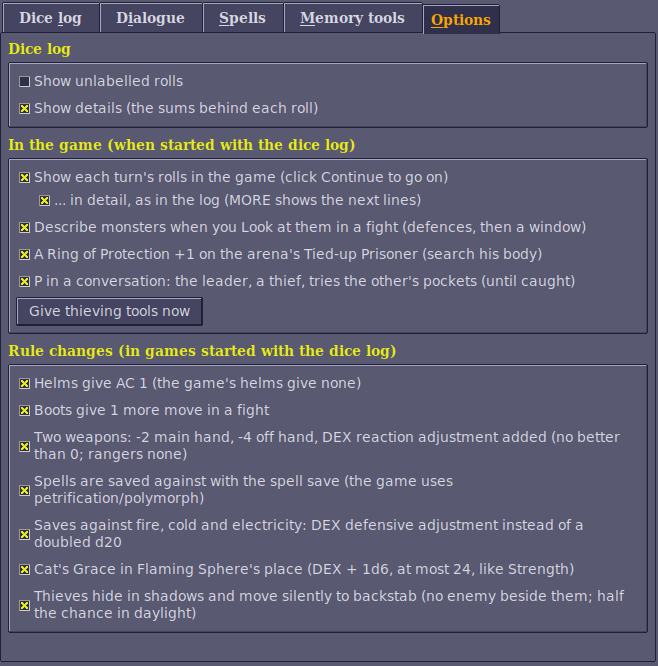
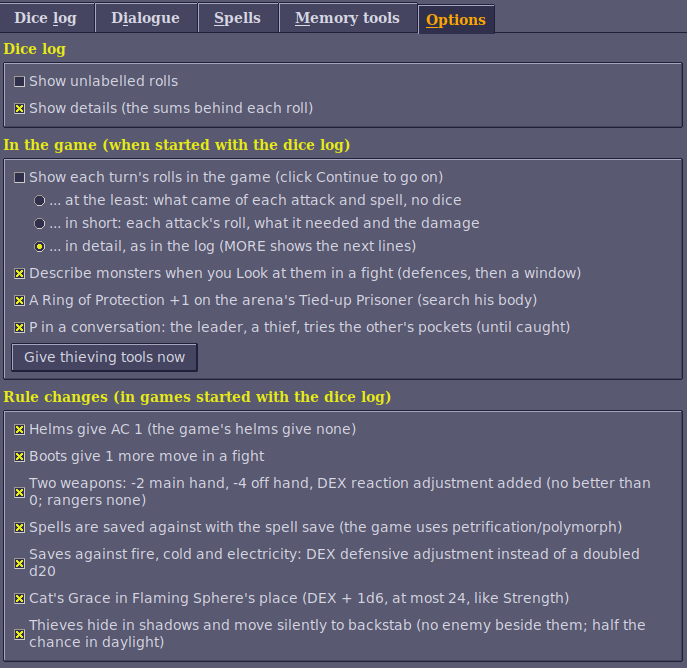
In-game turn pop-ups: off by default, and a third, minimal level
Below "Show each turn's rolls in the game" the Options tab now picks how much
the pop-up says: at the least (what came of each attack and spell, no dice:
"Cilla hits Slig for 8"), in short, or in detail. The pop-ups are off unless
ticked. Settings saved with the old detail switch carry over; the command
line gains --minimal-popups. Options screenshot retaken.

Claude-Session: https://claude.ai/code/session_01BNiWkhyZSJPYsN3zRrweVp

Changed region(s): [[0.0, 0.0, 1.0, 1.0], [0.304, 0.0, 0.7599, 0.0601]]

diff --git a/darksun-companion/dscompanion/dicelog.py b/darksun-companion/dscompanion/dicelog.py
@@ -149,6 +149,20 @@ RANDOM_NAME_RETURNS = (bytes.fromhex("83c40448eb11"), bytes.fromhex("83c40405630
                        bytes.fromhex("83c40405c700eb"))
 
 KIND_ROLL, KIND_SAVE, KIND_AC = 0, 1, 2
+# How much each turn's pop-up in the game says (the Options' turn_popups_level)
+POPUP_DETAIL, POPUP_SHORT, POPUP_MINIMAL = "detail", "short", "minimal"
+POPUP_LEVELS = (POPUP_MINIMAL, POPUP_SHORT, POPUP_DETAIL)
+# a spell's result in the log, for the least of them: "  Slig takes 9 from Fireball, now 9/18 HP"
+SPELL_RESULT = re.compile(r"^\s+(.+? (?:takes \d+|regains \d+ HP) from [^,]+)")
+
+
+def popup_level(settings: dict) -> str:
+    """The pop-ups' level as saved (earlier versions had only detail or not)."""
+    level = settings.get("turn_popups_level")
+    if level in POPUP_LEVELS:
+        return level
+    return POPUP_DETAIL if settings.get("turn_popups_detail", True) else POPUP_SHORT
+
 THIEF = 17  # class number
 
 EFFECT_INTERVAL = 0.25  # seconds between looks at the active effects
@@ -306,7 +320,7 @@ class DiceLog:
         self._new_speakers: Dict[int, str] = {}  # learned since take_speakers()
         self._talk: Optional[dict] = None  # the conversation on screen: its portraits and who it's with
         self.popups = False  # in-game turn summaries (set_popups)
-        self.popup_detail = True  # ... with the dice log's lines, or in short
+        self.popup_level = POPUP_DETAIL  # ... with the dice log's lines, in short, or the results only
         self.monster_info = True  # monsters' defences in the game's Look box (set_monster_info)
         self.arena_ring = True  # put the Ring +1 on the Tied-up Prisoner's body in the arena (ring.py)
         self.pickpockets = True  # P in a conversation picks a pocket (pickpocket.py)
@@ -498,8 +512,8 @@ class DiceLog:
 
     def use_settings(self, settings: dict) -> None:
         """The Options tab's switches for the game, as saved (for the logs without a window)."""
-        self.popups = bool(settings.get("turn_popups", True))
-        self.popup_detail = bool(settings.get("turn_popups_detail", True))
+        self.popups = bool(settings.get("turn_popups", False))
+        self.popup_level = popup_level(settings)
         self.monster_info = bool(settings.get("monster_info", True))
         self.arena_ring = bool(settings.get("arena_ring", True))
         self.pickpockets = bool(settings.get("pickpockets", True))
@@ -574,15 +588,31 @@ class DiceLog:
         ("needs 8+ (65%)", as the AC the roll hits and the target's AC say it) or a save's chance."""
         return TO_HIT_CHANCE.sub("", line.strip())
 
-    def turn_summary(self, combatant: int, detail: bool = True) -> str:
+    def turn_summary(self, combatant: int, level: str = POPUP_DETAIL) -> str:
         """What happened during that combatant's turn, for the game's window. In detail, the dice
         log's lines for it, a line each: attacks (the roll, the THAC0 worked out, the damage
-        dice), spells' damage and saving throws; otherwise in short, the attacks as
-        "Daaki attacks Guard: 18 vs 8+ HIT, 13 damage; 5 vs 8+ miss" and the spells' first lines."""
+        dice), spells' damage and saving throws; in short, the attacks as
+        "Daaki attacks Guard: 18 vs 8+ HIT, 13 damage; 5 vs 8+ miss" and the spells' first lines;
+        at the least, what came of it, no dice: "Daaki hits Guard for 13, misses. Slig takes 9
+        from Fireball"."""
         own = self.game.combatant_creature(combatant)
         order = sorted(self._turn_attacks, key=lambda c: c != own)  # stable: the rest in order of attacking
-        if detail:
+        if level == POPUP_DETAIL:
             text = "\n".join(self._for_game(line) for line in self._turn_log)
+        elif level == POPUP_MINIMAL:
+            parts = []
+            for creature in order:
+                target = None
+                for a in self._turn_attacks[creature]:
+                    what = (f"hits for {a['damage']}" if a["damage"] is not None else "hits") if a["hit"] else "misses"
+                    if a["target"] != target:
+                        target = a["target"]
+                        what = what.replace("hits", f"hits {target}", 1) if a["hit"] else f"misses {target}"
+                        parts.append(f"{self.game.creature_name(creature)} {what}")
+                    else:
+                        parts[-1] += f", {what}"
+            parts += [m.group(1) for m in map(SPELL_RESULT.match, self._turn_log) if m]
+            text = ". ".join(parts)
         else:
             parts = []
             for creature in order:
@@ -717,14 +747,14 @@ class DiceLog:
         # Only in the party's own fights: a fight the scripts stage without the party (the
         # Defiler's show at the arena's start) waits on the game's dialogue window, and a summary
         # there would let its script run on before the fight is over.
-        summary = self.turn_summary(ended, self.popup_detail) if self.popups and self._party_fighting(ended) else ""
-        if summary:  # and who is still to come, so the order isn't lost deep in a round
+        summary = self.turn_summary(ended, self.popup_level) if self.popups and self._party_fighting(ended) else ""
+        if summary and self.popup_level != POPUP_MINIMAL:  # and who is still to come, so the order isn't lost
             try:
                 still = self.still_to_act(ended, frozenset(self._turn_attacks))
             except (struct.error, IndexError, ValueError):
                 still = ""
             if still:
-                summary += ("\n" if self.popup_detail else ". ") + still
+                summary += ("\n" if self.popup_level == POPUP_DETAIL else ". ") + still
         summary = summary.replace("%", " pct")  # the game's window shows no "%", even as "%%"
         if len(summary) > MSG_SIZE - 1:
             summary = summary[:MSG_SIZE - 4].rsplit(" ", 1)[0] + "..."

diff --git a/darksun-companion/dscompanion/viewer.py b/darksun-companion/dscompanion/viewer.py
@@ -15,7 +15,7 @@ import tkinter as tk
 from tkinter import filedialog, messagebox, ttk
 from typing import Callable, Dict, List, Optional, Tuple
 
-from . import art, game, launch, partyview, spellbook, theme, values
+from . import art, dicelog, game, launch, partyview, spellbook, theme, values
 from .dicelog import DiceLog, DiceLogError
 from .guestmem import GuestMemory
 from .layout import Layout
@@ -282,15 +282,18 @@ class Viewer:
         in_game = ttk.LabelFrame(options, text="In the game (when started with the dice log)", padding=6)
         in_game.pack(fill="x", pady=(8, 0))
         # long lines wrap to the window (as with larger text) instead of running out of it
-        options.bind("<Configure>", lambda e: ttk.Style().configure(
-            "TCheckbutton", wraplength=max(200, e.width - 60)), add="+")
+        options.bind("<Configure>", lambda e: [ttk.Style().configure(
+            kind, wraplength=max(200, e.width - 60)) for kind in ("TCheckbutton", "TRadiobutton")], add="+")
         # the game's own window, at the end of each turn in a fight: that turn's rolls
-        self.popups = tk.BooleanVar(value=bool(settings.get("turn_popups", True)))
+        self.popups = tk.BooleanVar(value=bool(settings.get("turn_popups", False)))
         ttk.Checkbutton(in_game, text="Show each turn's rolls in the game (click Continue to go on)",
                         variable=self.popups, command=self._popups_changed).pack(anchor="w")
-        self.popup_detail = tk.BooleanVar(value=settings.get("turn_popups_detail", True))
-        ttk.Checkbutton(in_game, text="... in detail, as in the log (MORE shows the next lines)",
-                        variable=self.popup_detail, command=self._popups_changed).pack(anchor="w", padx=(20, 0))
+        self.popup_level = tk.StringVar(value=dicelog.popup_level(settings))
+        for value, text in ((dicelog.POPUP_MINIMAL, "... at the least: what came of each attack and spell, no dice"),
+                            (dicelog.POPUP_SHORT, "... in short: each attack's roll, what it needed and the damage"),
+                            (dicelog.POPUP_DETAIL, "... in detail, as in the log (MORE shows the next lines)")):
+            ttk.Radiobutton(in_game, text=text, value=value, variable=self.popup_level,
+                            command=self._popups_changed).pack(anchor="w", padx=(20, 0))
         # the game's Look box, on a monster in a fight: what hurts it, then all of it in a window
         self.monster_info = tk.BooleanVar(value=bool(settings.get("monster_info", True)))
         ttk.Checkbutton(in_game, text="Describe monsters when you Look at them in a fight (defences, then a window)",
@@ -600,7 +603,7 @@ class Viewer:
                 self.dice.speaker_names = launch.speaker_names()
                 self.dice.learned_speakers = launch.learned_speakers()
                 self.dice.popups = self.popups.get()
-                self.dice.popup_detail = self.popup_detail.get()
+                self.dice.popup_level = self.popup_level.get()
                 self.dice.monster_info = self.monster_info.get()
                 self.dice.arena_ring = self.arena_ring.get()
                 self.dice.pickpockets = self.pickpockets.get()
@@ -681,7 +684,7 @@ class Viewer:
         on = self.popups.get()
         settings = launch.load_settings()
         settings["turn_popups"] = on
-        settings["turn_popups_detail"] = self.popup_detail.get()
+        settings["turn_popups_level"] = self.popup_level.get()
         settings["monster_info"] = self.monster_info.get()
         settings["arena_ring"] = self.arena_ring.get()
         settings["pickpockets"] = self.pickpockets.get()
@@ -690,7 +693,7 @@ class Viewer:
         launch.save_settings(settings)
         if self.dice is not None:
             self.dice.set_popups(on)
-            self.dice.popup_detail = self.popup_detail.get()
+            self.dice.popup_level = self.popup_level.get()
             self.dice.set_monster_info(self.monster_info.get())
             self.dice.arena_ring = self.arena_ring.get()
             self.dice.set_pickpockets(self.pickpockets.get())

diff --git a/darksun-companion/tests/test_dicelog.py b/darksun-companion/tests/test_dicelog.py
@@ -262,9 +262,9 @@ class AttackTests(unittest.TestCase):
                                parent_code=dicelog.WEAPON_DAMAGE_RETURN))
         log.describe(self.attack(3, 8, 4, 5, 9, after_f1=9, hit_bonus=1))  # and misses
         short = "Dag attacks Mountain Stalker: 18 vs 4+ HIT, 20 damage; 3 vs 4+ miss"
-        self.assertEqual(log.turn_summary(0, detail=False), short)
+        self.assertEqual(log.turn_summary(0, dicelog.POPUP_SHORT), short)
         # anyone's attacks during a turn go in its summary (a guarding character striking back...)
-        self.assertEqual(log.turn_summary(1, detail=False), short)
+        self.assertEqual(log.turn_summary(1, dicelog.POPUP_SHORT), short)
         # in detail: the dice log's lines, the damage under the hit it belongs to
         lines = log.turn_summary(0).split("\n")
         self.assertEqual(len(lines), 5)
@@ -272,7 +272,9 @@ class AttackTests(unittest.TestCase):
         self.assertTrue(lines[1].startswith("THAC0"))
         self.assertEqual(lines[2], "Dag hits Mountain Stalker for 20: 2d8 = [2 + 5] +1 weapon +12 STR 24")
         self.assertTrue(lines[3].endswith("-> miss"))
-        log.popup_detail = False
+        # at the least: what came of it
+        self.assertEqual(log.turn_summary(0, dicelog.POPUP_MINIMAL), "Dag hits Mountain Stalker for 20, misses")
+        log.popup_level = dicelog.POPUP_SHORT
         # DSCLOG's side: it counts the turn's end (Dag's, combatant 0) and waits for the text
         m = log.guest.mem
         struct.pack_into("<H", m, HDR + dicelog.TSR_HDR_OFF, 0)
@@ -286,6 +288,25 @@ class AttackTests(unittest.TestCase):
         self.assertEqual(bytes(m[HDR + 0x400:HDR + 0x400 + 68]).split(b"\0")[0],
                          b"Dag attacks Mountain Stalker: 18 vs 4+ HIT, 20 damage; 3 vs 4+ miss")
         self.assertEqual(log.turn_summary(0), "")  # a new turn starts afresh
+
+    def test_minimal_spells(self):
+        """At the least, a spell's damage taken and healing, without its dice or saves."""
+        log = make_game()
+        log._turn_log += ["Fireball damage: 9d6 = [3 + 2 + 3 + 4 + 5 + 4 + 1 + 2 + 2] = 26",
+                          "Red Slaad saves vs Fireball from Daaki (petrification/polymorph): d20 = 6 -> saved",
+                          "  Red Slaad takes 13 from Fireball, now 47/60 HP",
+                          "  Dag regains 7 HP from Cure Light Wounds, now 30/40 HP"]
+        self.assertEqual(log.turn_summary(0, dicelog.POPUP_MINIMAL),
+                         "Red Slaad takes 13 from Fireball. Dag regains 7 HP from Cure Light Wounds")
+
+    def test_popup_settings(self):
+        """Off unless ticked; the level as saved, or from an earlier version's detail switch."""
+        log = make_game()
+        log.use_settings({})
+        self.assertEqual((log.popups, log.popup_level), (False, dicelog.POPUP_DETAIL))
+        self.assertEqual(dicelog.popup_level({"turn_popups_detail": False}), dicelog.POPUP_SHORT)
+        self.assertEqual(dicelog.popup_level({"turn_popups_level": "minimal", "turn_popups_detail": True}),
+                         dicelog.POPUP_MINIMAL)
 
     def test_look_box_describes_the_monster(self):
         log = make_game()
@@ -344,7 +365,7 @@ class AttackTests(unittest.TestCase):
         self.assertIn("needs 12 -> saved", text[1])  # the chance to save left out too
         self.assertEqual(text[2], "Dag takes 8 from Fireball, now 16/24 HP")
         self.assertEqual(len(text), 3)  # nor unlabelled dice
-        self.assertEqual(log.turn_summary(0, detail=False).split(". ")[0], "Fireball damage: 5d6 = [2 + 5 + 3 + 6 + 1] = 17")
+        self.assertEqual(log.turn_summary(0, dicelog.POPUP_SHORT).split(". ")[0], "Fireball damage: 5d6 = [2 + 5 + 3 + 6 + 1] = 17")
 
     def test_detailed_summary_in_the_game(self):
         log = make_game()

diff --git a/darksun-companion/dscompanion/__main__.py b/darksun-companion/dscompanion/__main__.py
@@ -133,6 +133,7 @@ def cmd_checks(args) -> None:
 
 def cmd_dicelog(args) -> None:
     import time
+    from . import dicelog
     from .dicelog import DiceLog
     from .dicelog import DiceLogError
     from .guestmem import GuestMemoryError
@@ -148,7 +149,8 @@ def cmd_dicelog(args) -> None:
     log = DiceLog(guest, record_everything=args.raw)
     log.use_settings(load_settings())  # the Ring +1, the rule changes, monster descriptions
     log.popups = args.popups
-    log.popup_detail = not args.short_popups
+    log.popup_level = (dicelog.POPUP_MINIMAL if args.minimal_popups else
+                       dicelog.POPUP_SHORT if args.short_popups else dicelog.POPUP_DETAIL)
     log.speaker_names = speaker_names()
     log.learned_speakers = learned_speakers()
 
@@ -363,6 +365,8 @@ def main(argv=None) -> int:
                    help="in a fight, have the game show each turn's rolls when the turn ends")
     s.add_argument("--short-popups", action="store_true",
                    help="with --popups: one line per target instead of the log's detail")
+    s.add_argument("--minimal-popups", action="store_true",
+                   help="with --popups: only what came of each attack and spell, no dice")
     s.set_defaults(func=cmd_dicelog)
 
     s = sub.add_parser("checks", help="list the thief skill and ability checks in the game's scripts (spoilers)")

diff --git a/darksun-companion/dscompanion/theme.py b/darksun-companion/dscompanion/theme.py
@@ -86,10 +86,11 @@ def apply(root: tk.Tk) -> None:
     style.map("TButton", background=[("pressed", DEEP), ("active", STONE)],
               foreground=[("pressed", YELLOW), ("active", YELLOW)],
               lightcolor=[("pressed", SHADOW)], darkcolor=[("pressed", EDGE_LIT)])
-    style.configure("TCheckbutton", background=STONE, foreground=PALE, indicatorbackground=DEEP,
-                    indicatorforeground=YELLOW, focuscolor=FOCUS)
-    style.map("TCheckbutton", background=[("active", STONE)], foreground=[("active", YELLOW)],
-              indicatorbackground=[("active", DARK)])
+    for kind in ("TCheckbutton", "TRadiobutton"):
+        style.configure(kind, background=STONE, foreground=PALE, indicatorbackground=DEEP,
+                        indicatorforeground=YELLOW, focuscolor=FOCUS)
+        style.map(kind, background=[("active", STONE)], foreground=[("active", YELLOW)],
+                  indicatorbackground=[("active", DARK)])
     style.configure("TEntry", fieldbackground=DEEP, foreground=YELLOW, insertcolor=PALE)
     style.configure("TCombobox", fieldbackground=DEEP, foreground=YELLOW, background=BUTTON,
                     arrowcolor=PALE)

diff --git a/darksun-companion/README.md b/darksun-companion/README.md
@@ -35,9 +35,9 @@ records; this ledger keeps the ones the game doesn't show you. What it does:
   View Character screen their THAC0 and saves
   (see [In the game](#in-the-game-thac0-saves-and-thief-skills)); the USE
   screen shows their spell slots left (see
-  [spell slots](#in-the-game-spell-slots-on-the-use-screen)); and after each
-  turn in a fight the game stops to show that turn's attack rolls, spell
-  damage and saving throws, and who is still to act (see
+  [spell slots](#in-the-game-spell-slots-on-the-use-screen)); and, if you
+  tick it, after each turn in a fight the game stops to show that turn's
+  attack rolls, spell damage and saving throws, and who is still to act (see
   [each turn's rolls](#in-the-game-each-turns-rolls)); and Looking at a monster
   in a fight tells you what hurts it (see
   [the Look box](#in-the-game-what-hurts-a-monster-the-look-box)). The game,
@@ -114,8 +114,8 @@ no packaged program to trust.
 Double-click **`Start Game with Dice Log.bat`** in the `darksun-companion`
 folder. It starts Shattered Lands (through GOG's own DOSBox) with the dice log
 helper loaded, and opens Templar's Ledger next to it. The game gets its
-in-game additions too: each turn's rolls shown in the game (untick **Show
-each turn's rolls in the game** on the Options tab to turn that off), THAC0,
+in-game additions too: each turn's rolls shown in the game if you want them
+(tick **Show each turn's rolls in the game** on the Options tab), THAC0,
 saves and thief skills on the inventory and View Character screens, and spell
 slots on the USE screen. Your saves are the same ones the game normally uses.
 The first time, it looks for the game in the usual GOG folders; if it can't
@@ -1030,11 +1030,13 @@ and stay, while Templar's Ledger (or its command-line dice log) is running.
 
 ### In the game: each turn's rolls
 
-With **Show each turn's rolls in the game** ticked on the Options tab (the
-default; or `python -m dscompanion dicelog --popups`), the game stops at the end
+With **Show each turn's rolls in the game** ticked on the Options tab (it is
+off unless you tick it; or `python -m dscompanion dicelog --popups`), the game
+stops at the end
 of every turn in a fight in which someone attacked or cast a spell, and shows
-that turn's rolls in its own dialogue window, with **Continue** to go on. They
-are the dice log's own lines: each attack's d20, the AC it would hit and the
+that turn's rolls in its own dialogue window, with **Continue** to go on. Below
+the box, pick how much it says: **at the least**, **in short** or **in
+detail**. In detail, they are the dice log's own lines: each attack's d20, the AC it would hit and the
 target's AC, how the THAC0 was worked out, and for a hit the damage dice and
 bonuses; a spell's damage dice, and each saving throw against it. (The chance
 to hit or to save is left out: the log has it.) The last line says who is
@@ -1048,14 +1050,18 @@ next ones:
 
 ![The game's window after a Defiler's Cone of Cold](docs/turn-spell.png)
 
-Untick **... in detail** (or add `--short-popups`) for one line per target
-instead (and each spell's first line):
+**In short** (or `--short-popups`) gives one line per target instead (and each
+spell's first line):
 
 ![The game's window at the end of Mlemlem's turn, in short](docs/turn-summary.png)
 
 `20 vs 11+ HIT, 12 damage` is the d20, the roll it needed (THAC0 − the
 target's AC; a natural 20 always hits, a 1 always misses), and the damage the
 hit did.
+
+**At the least** (or `--minimal-popups`) gives only what came of the turn, no
+dice: `Mlemlem hits Mountain Stalker for 12, misses. Slig takes 9 from
+Fireball`. It leaves out who is still to act.
 
 Each turn gets its own window, monsters' included. (The game plays a
 monster's whole turn inside one call, so the helper is also called there, just

diff --git a/README.md b/README.md
@@ -76,6 +76,9 @@ launcher runs a patched copy of the game that it keeps in its own folder.
   the game's "Rest icon" label is back.
 
 **Changed**
+- **Turn pop-ups in the game are off by default**, and have three levels: at the
+  least (only what came of each attack and spell, no dice), in short, or in
+  detail.
 - **Spell slots** (on the USE screen and the Characters tab) only show the spell
   levels the character can cast. More levels appear as they level up. The game
   gives WIS bonus slots at levels a character can't use yet, and those are no
